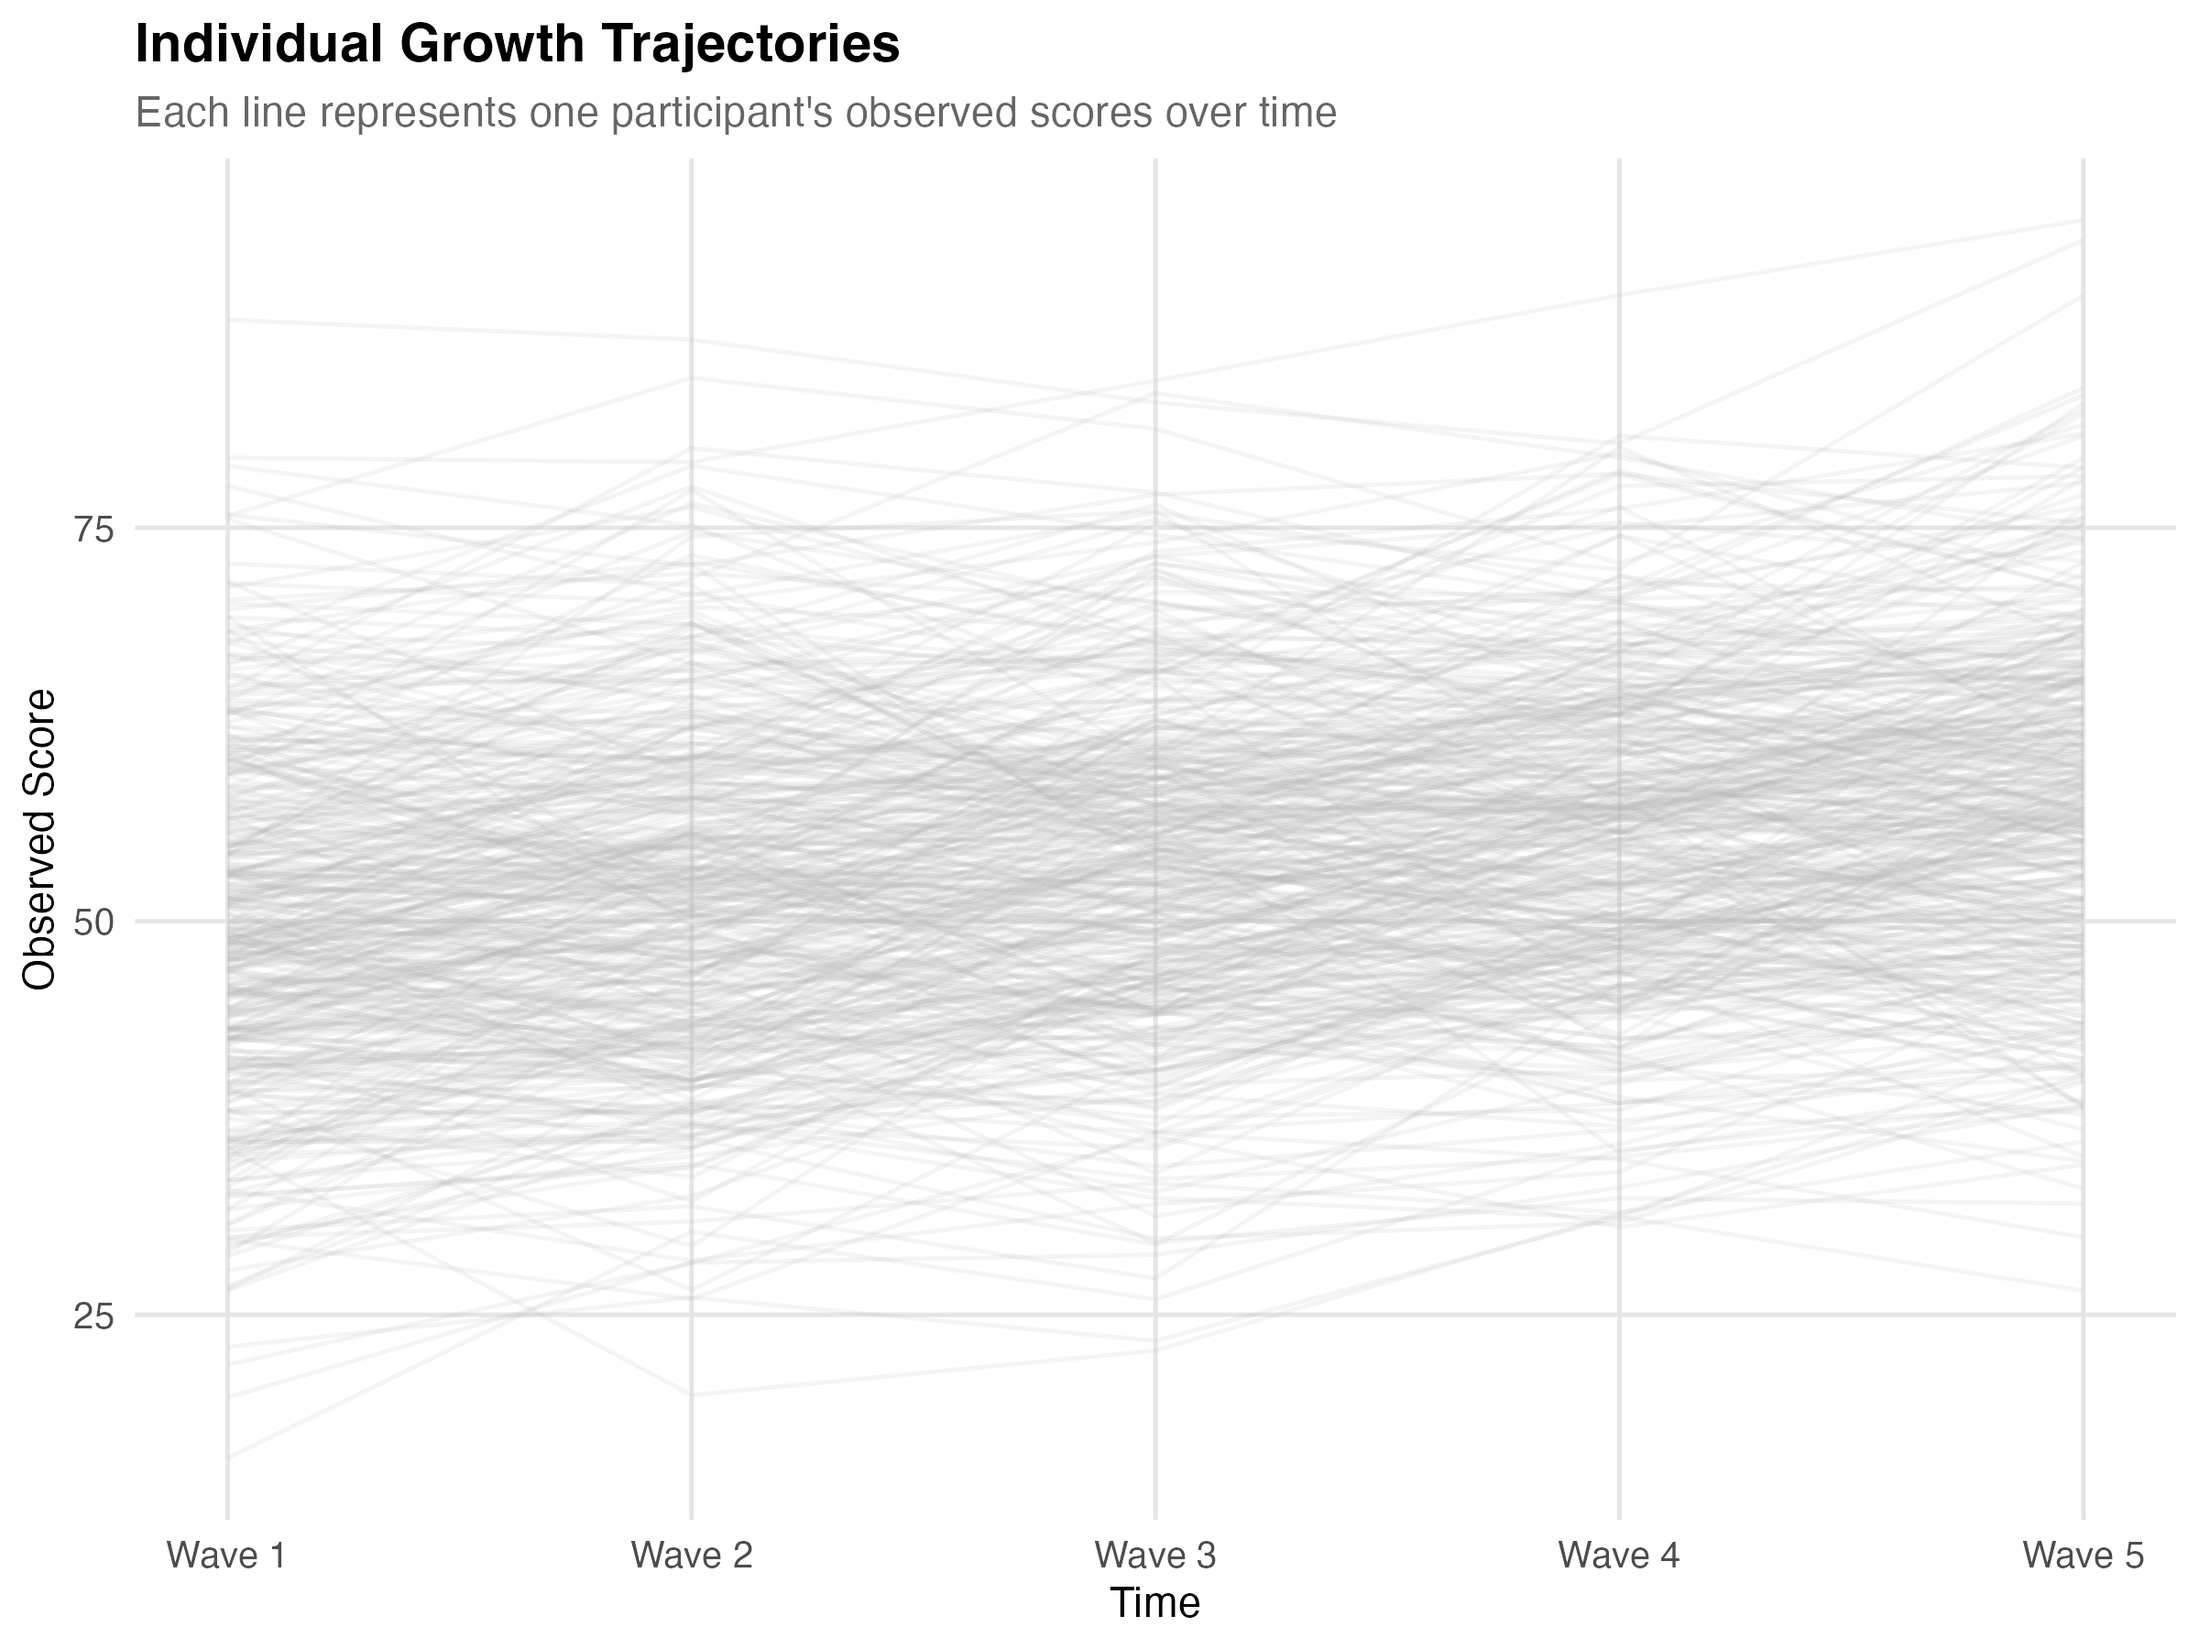
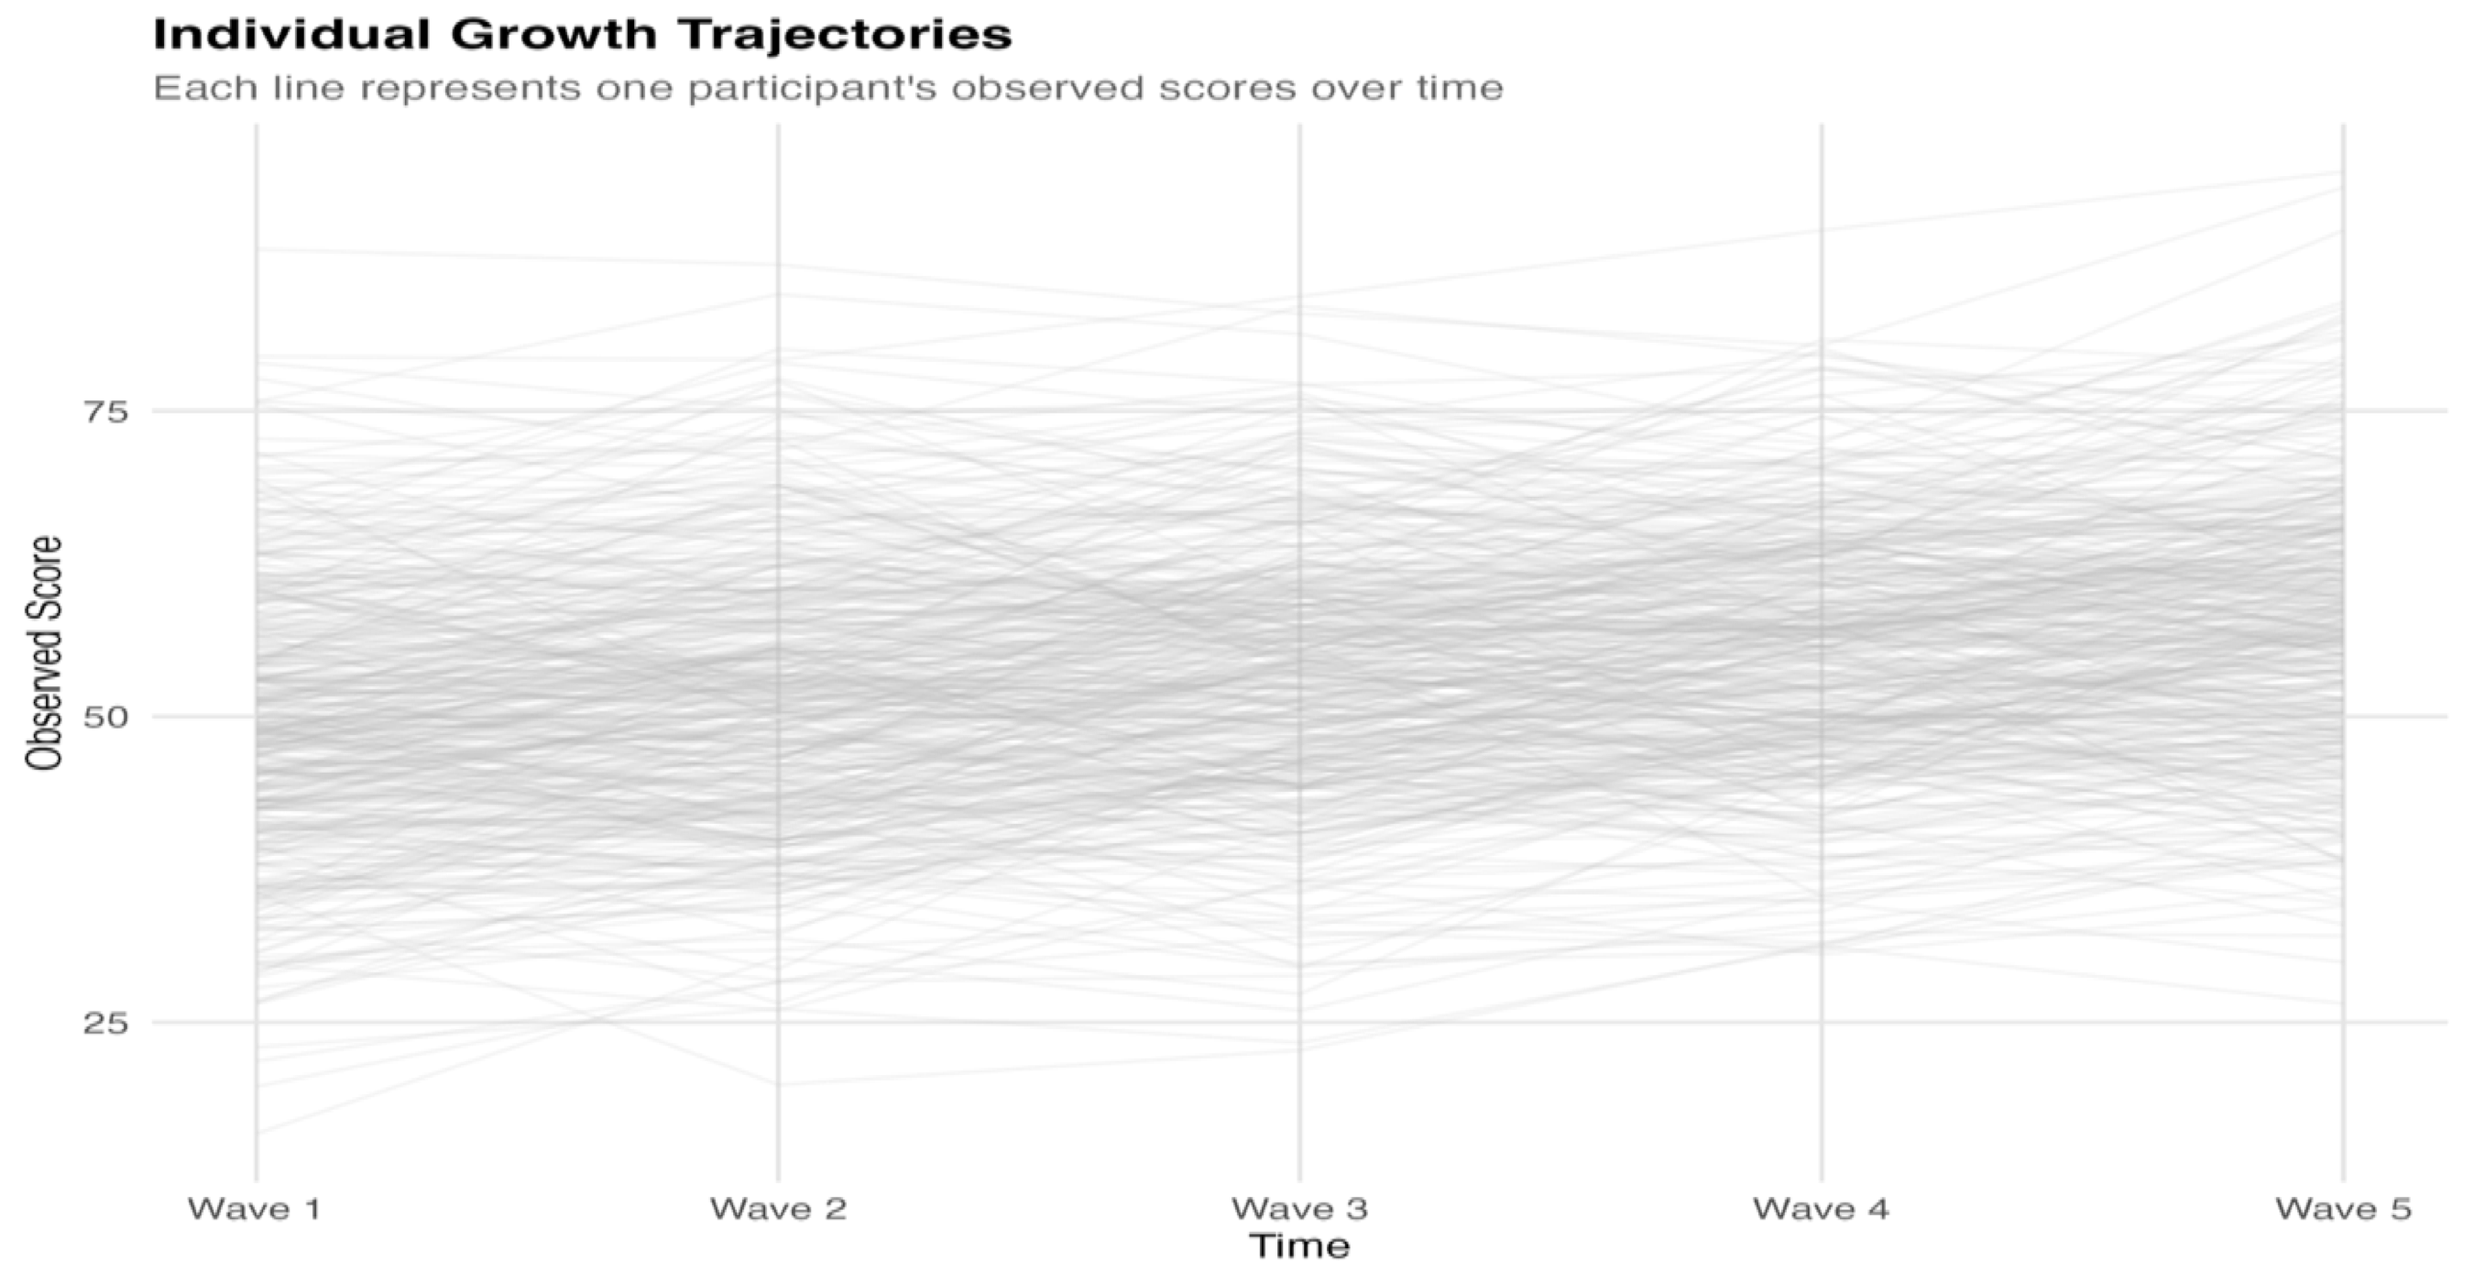
polish(guides): improve LGCM hub pitfalls and image consistency
- Expand Common Pitfalls from 5 to 10 items in compact format
- Add figure wrappers with subtle border styling to PNG images
- Resize spaghetti and intercept-slope plots to 2700×1400 for consistency

diff --git a/content/guides/lgcm-pilot.md b/content/guides/lgcm-pilot.md
@@ -20,9 +20,10 @@ Traditional approaches like repeated measures ANOVA focus on group means: "Did t
 
 Consider a therapy study where the average patient improves by 8 points over 6 months. Success? Look at the individual trajectories:
 
-![Individual Growth Trajectories](/images/guides/lgcm/fig01_spaghetti_all.png)
-
-*Each line is one person. Some improved dramatically. Some stayed flat. A few got worse. The average hides enormous individual variation.*
+<figure style="margin: 1.5rem 0;">
+<img src="/images/guides/lgcm/fig01_spaghetti_all.png" alt="Individual Growth Trajectories" style="border-radius: 8px; border: 1px solid rgba(255,255,255,0.1);" />
+<figcaption style="font-style: italic; margin-top: 0.5rem; color: rgba(255,255,255,0.7);">Each line is one person. Some improved dramatically. Some stayed flat. A few got worse. The average hides enormous individual variation.</figcaption>
+</figure>
 
 The average tells you "the group improved"—but the real questions are:
 
@@ -149,9 +150,10 @@ This is where LGCM shines—quantifying how much people differ.
 - If ψ₁₁ = 100 → SD = 10 → ~68% of people have intercepts within ±10 of the mean
 - If ψ₂₂ = 1 → SD = 1 → ~68% of people have slopes within ±1 of the mean
 
-![Distribution of Growth Parameters](/images/guides/lgcm/fig05_distributions.png)
-
-*Histograms showing the distribution of individual intercepts (left) and slopes (right) across 400 participants.*
+<figure style="margin: 1.5rem 0;">
+<img src="/images/guides/lgcm/fig05_distributions.png" alt="Distribution of Growth Parameters" style="border-radius: 8px; border: 1px solid rgba(255,255,255,0.1);" />
+<figcaption style="font-style: italic; margin-top: 0.5rem; color: rgba(255,255,255,0.7);">Histograms showing the distribution of individual intercepts (left) and slopes (right) across 400 participants.</figcaption>
+</figure>
 
 ### Factor Covariance: The Intercept-Slope Relationship
 
@@ -163,9 +165,10 @@ One of LGCM's most informative parameters is the relationship between where peop
 | **Negative** | High starters grow slower (or decline faster). Regression to mean. |
 | **Zero** | Starting level doesn't predict change rate. |
 
-![Intercept-Slope Relationship](/images/guides/lgcm/fig06_intercept_slope.png)
-
-*Scatterplot of individual intercepts vs. slopes. The negative correlation (r ≈ -0.20) indicates that participants who started higher tended to grow slightly slower.*
+<figure style="margin: 1.5rem 0;">
+<img src="/images/guides/lgcm/fig06_intercept_slope.png" alt="Intercept-Slope Relationship" style="border-radius: 8px; border: 1px solid rgba(255,255,255,0.1);" />
+<figcaption style="font-style: italic; margin-top: 0.5rem; color: rgba(255,255,255,0.7);">Scatterplot of individual intercepts vs. slopes. The negative correlation (r ≈ -0.20) indicates that participants who started higher tended to grow slightly slower.</figcaption>
+</figure>
 
 These patterns aren't just statistical curiosities—they have substantive meaning:
 
@@ -299,9 +302,10 @@ Residual variances omitted for clarity
 
 The path diagram shows the model structure; spaghetti plots show what it describes:
 
-![Variability in Trajectories](/images/guides/lgcm/fig04_highlighted.png)
-
-*Extreme cases highlighted to illustrate different combinations of intercept and slope: high starters with fast growth (blue), high starters with slow growth (purple), low starters with fast growth (orange), low starters with slow growth (red).*
+<figure style="margin: 1.5rem 0;">
+<img src="/images/guides/lgcm/fig04_highlighted.png" alt="Variability in Trajectories" style="border-radius: 8px; border: 1px solid rgba(255,255,255,0.1);" />
+<figcaption style="font-style: italic; margin-top: 0.5rem; color: rgba(255,255,255,0.7);">Extreme cases highlighted to illustrate different combinations of intercept and slope: high starters with fast growth (blue), high starters with slow growth (purple), low starters with fast growth (orange), low starters with slow growth (red).</figcaption>
+</figure>
 
 This figure illustrates the four "corners" of the intercept-slope distribution:
 
@@ -416,37 +420,27 @@ Now slope = change per **month**. Rescale for interpretability if needed (e.g., 
 
 ## Common Pitfalls
 
-Before applying LGCM to your data, be aware of these frequent misinterpretations.
+Before applying LGCM, be aware of these frequent misinterpretations.
 
-### "Everyone improved" (ignoring slope variance)
+**Ignoring slope variance** — Concluding "everyone improved" because mean slope = 2. *Reality:* If slope SD = 2, roughly 16% have slopes ≤ 0. Always report variance alongside the mean.
 
-**Mistake:** Mean slope = 2, so you conclude everyone improved.
+**Misreading intercept-slope correlation** — Assuming negative correlation means high starters declined. *Reality:* Negative correlation means high starters *grew slower*, not that they declined. Combine with slope mean to interpret direction.
 
-**Reality:** If slope SD = 2, roughly 16% have slopes ≤ 0 (no improvement or decline). Always report variance alongside the mean—individual differences are the point of LGCM.
+**Confusing means with individuals** — Stating "the model shows steady improvement" as if everyone follows this pattern. *Reality:* The mean trajectory summarizes the group; individual trajectories can look wildly different. Plot spaghetti plots alongside the mean.
 
-### "High starters declined" (misreading intercept-slope correlation)
+**Equating good fit with truth** — Assuming RMSEA < .06 proves the model is correct. *Reality:* Good fit means *plausible*, not *true*. Multiple models can fit the same data. Always compare alternatives (quadratic, piecewise).
 
-**Mistake:** Negative I-S correlation means people who started high got worse.
+**Misinterpreting recentered intercepts** — Recentering time at midpoint but still interpreting the intercept as "baseline." *Reality:* The intercept refers to wherever time = 0 in your coding. Match interpretation to your time coding.
 
-**Reality:** Negative correlation means high starters *grew slower*, not that they declined. To determine direction, combine the correlation with the slope mean. If mean slope = 3 and r = -0.30, high starters still improved—just less steeply.
+**Ignoring residual autocorrelation** — Assuming residuals are independent across time without checking. *Reality:* Large modification indices or poor fit may indicate carryover effects. Check modification indices; consider autoregressive structures if needed.
 
-### Confusing the average trajectory with individual patterns
+**Overfitting with too few time points** — Fitting a quadratic model with 4 waves (0 df) and concluding "quadratic growth." *Reality:* Just-identified models fit perfectly by construction—there's no test of fit. Ensure positive degrees of freedom.
 
-**Mistake:** "The model shows steady linear improvement"—implying everyone follows this pattern.
+**Ignoring the missing data mechanism** — Using FIML and assuming everything is fine. *Reality:* FIML assumes MAR. If dropout depends on unobserved values (MNAR), estimates may be biased. Examine who drops out; include auxiliary variables; conduct sensitivity analyses.
 
-**Reality:** The mean trajectory summarizes the group, but individual trajectories can look wildly different. Some people may decline while the average rises. Plot individual trajectories (spaghetti plots) alongside the mean to avoid overgeneralizing.
+**Over-interpreting non-significant variance** — Slope variance p = .08, so "everyone changes at the same rate." *Reality:* You may be underpowered; p = .08 isn't strong evidence of zero. Report the estimate and confidence interval, not just the p-value.
 
-### Assuming good fit proves the model is "correct"
-
-**Mistake:** RMSEA < .06 and CFI > .95, so the linear model must be the true data-generating process.
-
-**Reality:** Good fit means the model is *plausible*, not *correct*. Multiple models can fit the same data. Good fit doesn't rule out nonlinear patterns, omitted variables, or alternative specifications. Always compare alternative models (quadratic, piecewise) rather than accepting the first one that fits.
-
-### Misinterpreting the intercept after recentering
-
-**Mistake:** You recenter time at midpoint (loadings: -2, -1, 0, 1, 2) but interpret the intercept as "baseline."
-
-**Reality:** The intercept always refers to where time = 0 in your coding. After midpoint centering, the intercept represents expected score at Wave 3, not Wave 1. Match your interpretation to your time coding—or you'll misattribute effects to the wrong time point.
+**Forgetting to look at the data** — Jumping straight to modeling without visualization. *Reality:* You might miss outliers, nonlinearity, subgroups, or data errors. Always plot spaghetti plots first.
 
 ---
 
